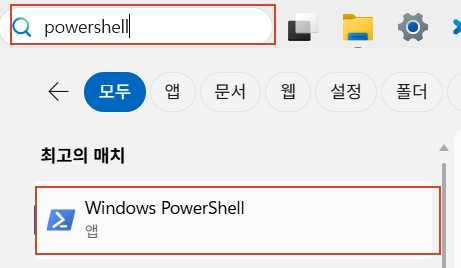
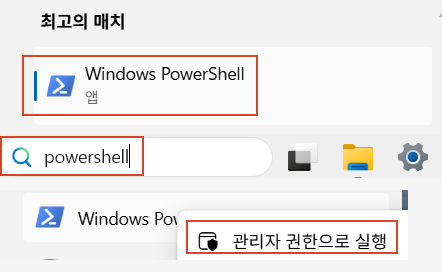
준비안내 PowerShell 열기: 두 장을 한 장으로, 강조 좌표 실측
- 나눠 두니 사이에 큰 공백이 생기고 쪽까지 넘어갔다. 한 장으로 합침
- 실제 화면은 검색창이 맨 아래이고 결과가 그 위로 펼쳐진다. 붙일 때
  그 위아래를 지켜 학생 화면과 맞게 함(앞서 뒤집혀 있었다)
- 강조 셋을 눈대중 대신 픽셀로 재서 넣음 — 관리자 메뉴 상자가
  아이콘을 물고 글자를 반쯤 덮던 것, 결과 상자 오른쪽이 잘리던 것 수정

diff --git a/강의/준비안내.md b/강의/준비안내.md
@@ -134,14 +134,11 @@ uv run 확인.py
 운영체제인데, 다음 ⑥ 에서 깔 **Docker 가 그 위에서만 돌아갑니다.**
 그래서 Docker 보다 먼저 깝니다. 리눅스를 직접 쓸 일은 없습니다.
 
-**1. 관리자 PowerShell 을 엽니다** — 화면 맨 아래 **윈도우 로고 옆 검색창**에
-`powershell` 을 칩니다. 맨 위에 **Windows PowerShell** 이 나옵니다.
+**1. 관리자 PowerShell 을 엽니다** — 화면 **맨 아래 검색창**에 `powershell` 을
+칩니다. 위에 뜬 목록의 맨 위가 **Windows PowerShell** 입니다.
+그 위에서 **오른쪽 클릭 → 「관리자 권한으로 실행」**.
 
-![검색창에 powershell 을 치면 맨 위에 Windows PowerShell 이 나옵니다](그림/wsl_0_검색.png)
-
-그 **Windows PowerShell 위에서 오른쪽 클릭** → **「관리자 권한으로 실행」**.
-
-![오른쪽 클릭 → 관리자 권한으로 실행](그림/wsl_0_관리자.png)
+![맨 아래 검색창에 powershell → 맨 위 결과에서 오른쪽 클릭 → 관리자 권한으로 실행](그림/wsl_0_검색.png)
 
 **2. 아래 한 줄을 복사해 붙여넣고 Enter** — 검은 창이 열리면 거기에 붙여넣습니다.
 
